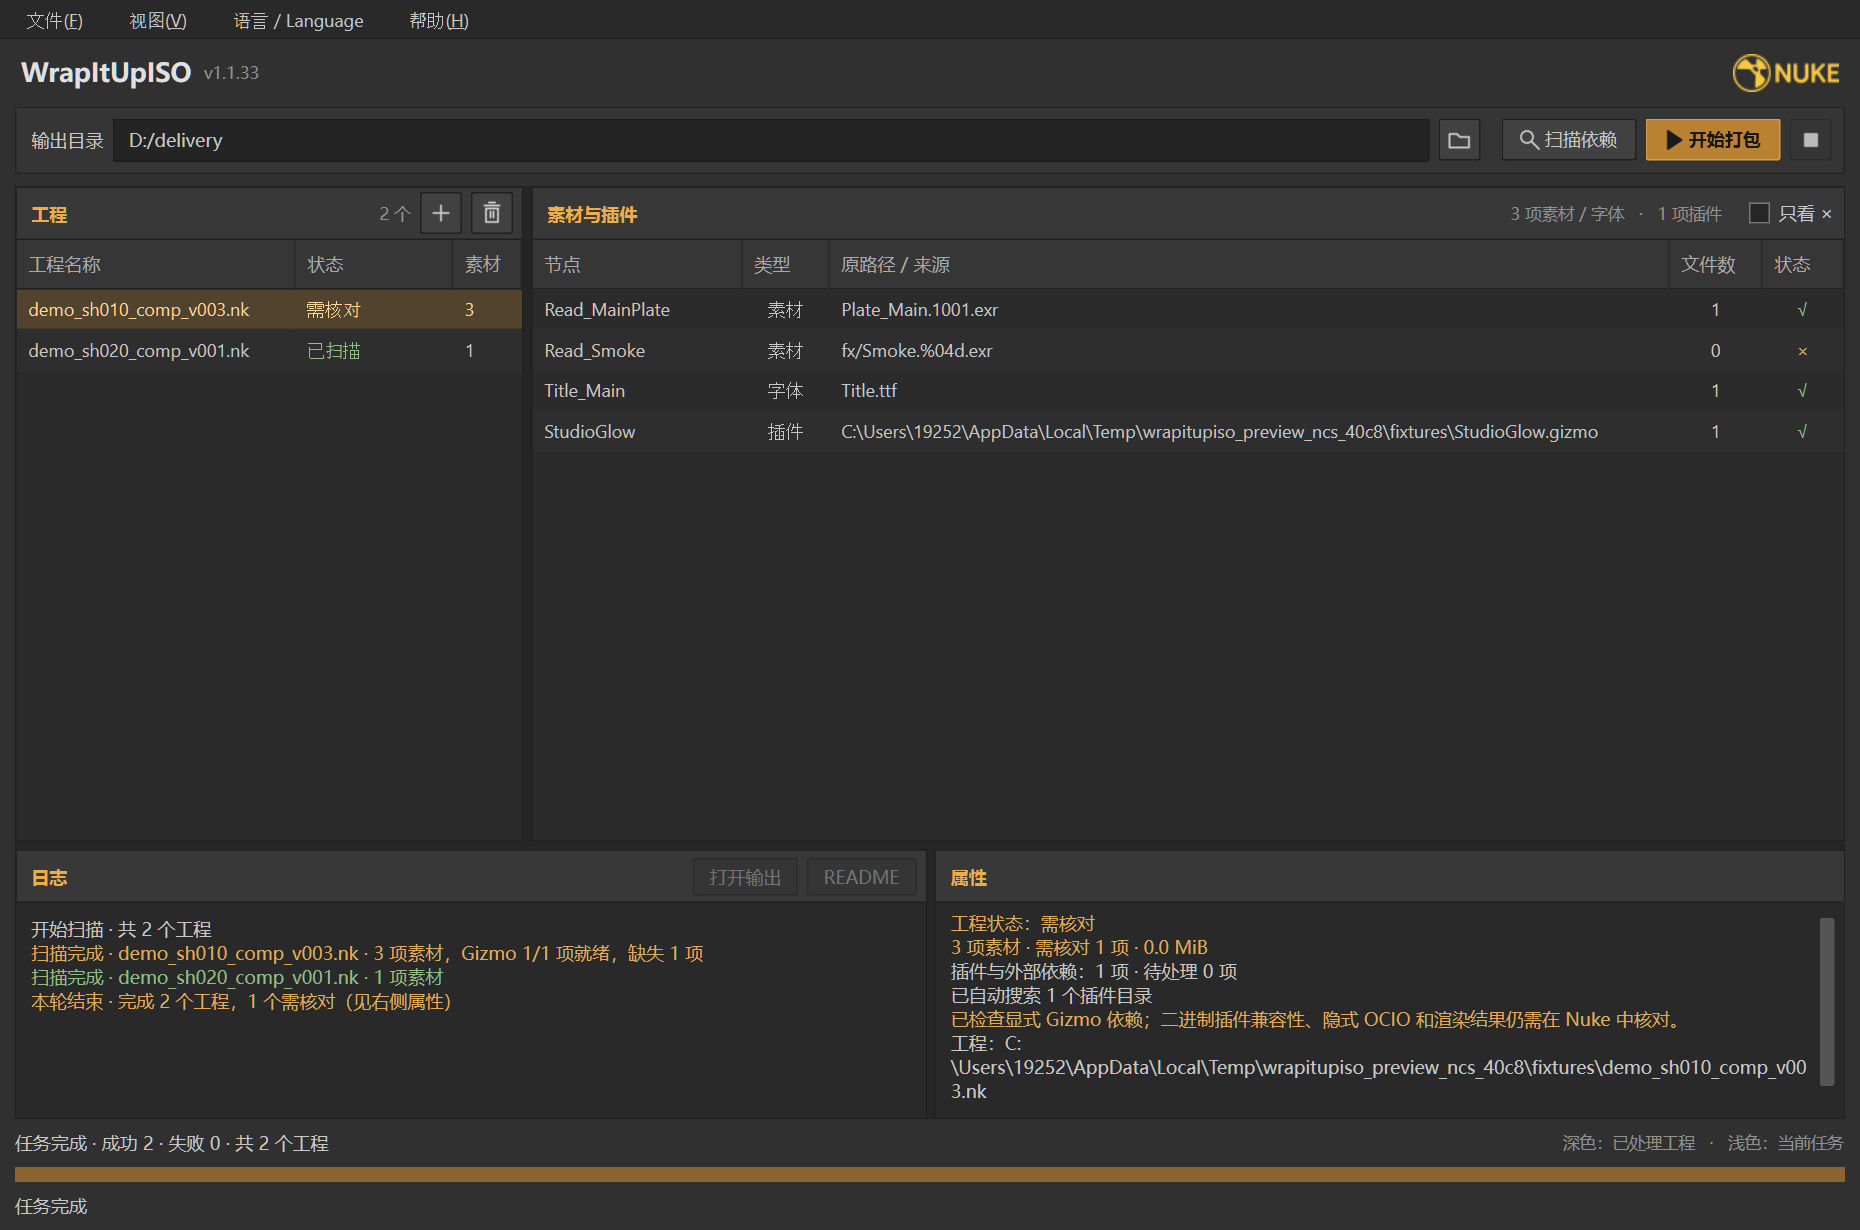
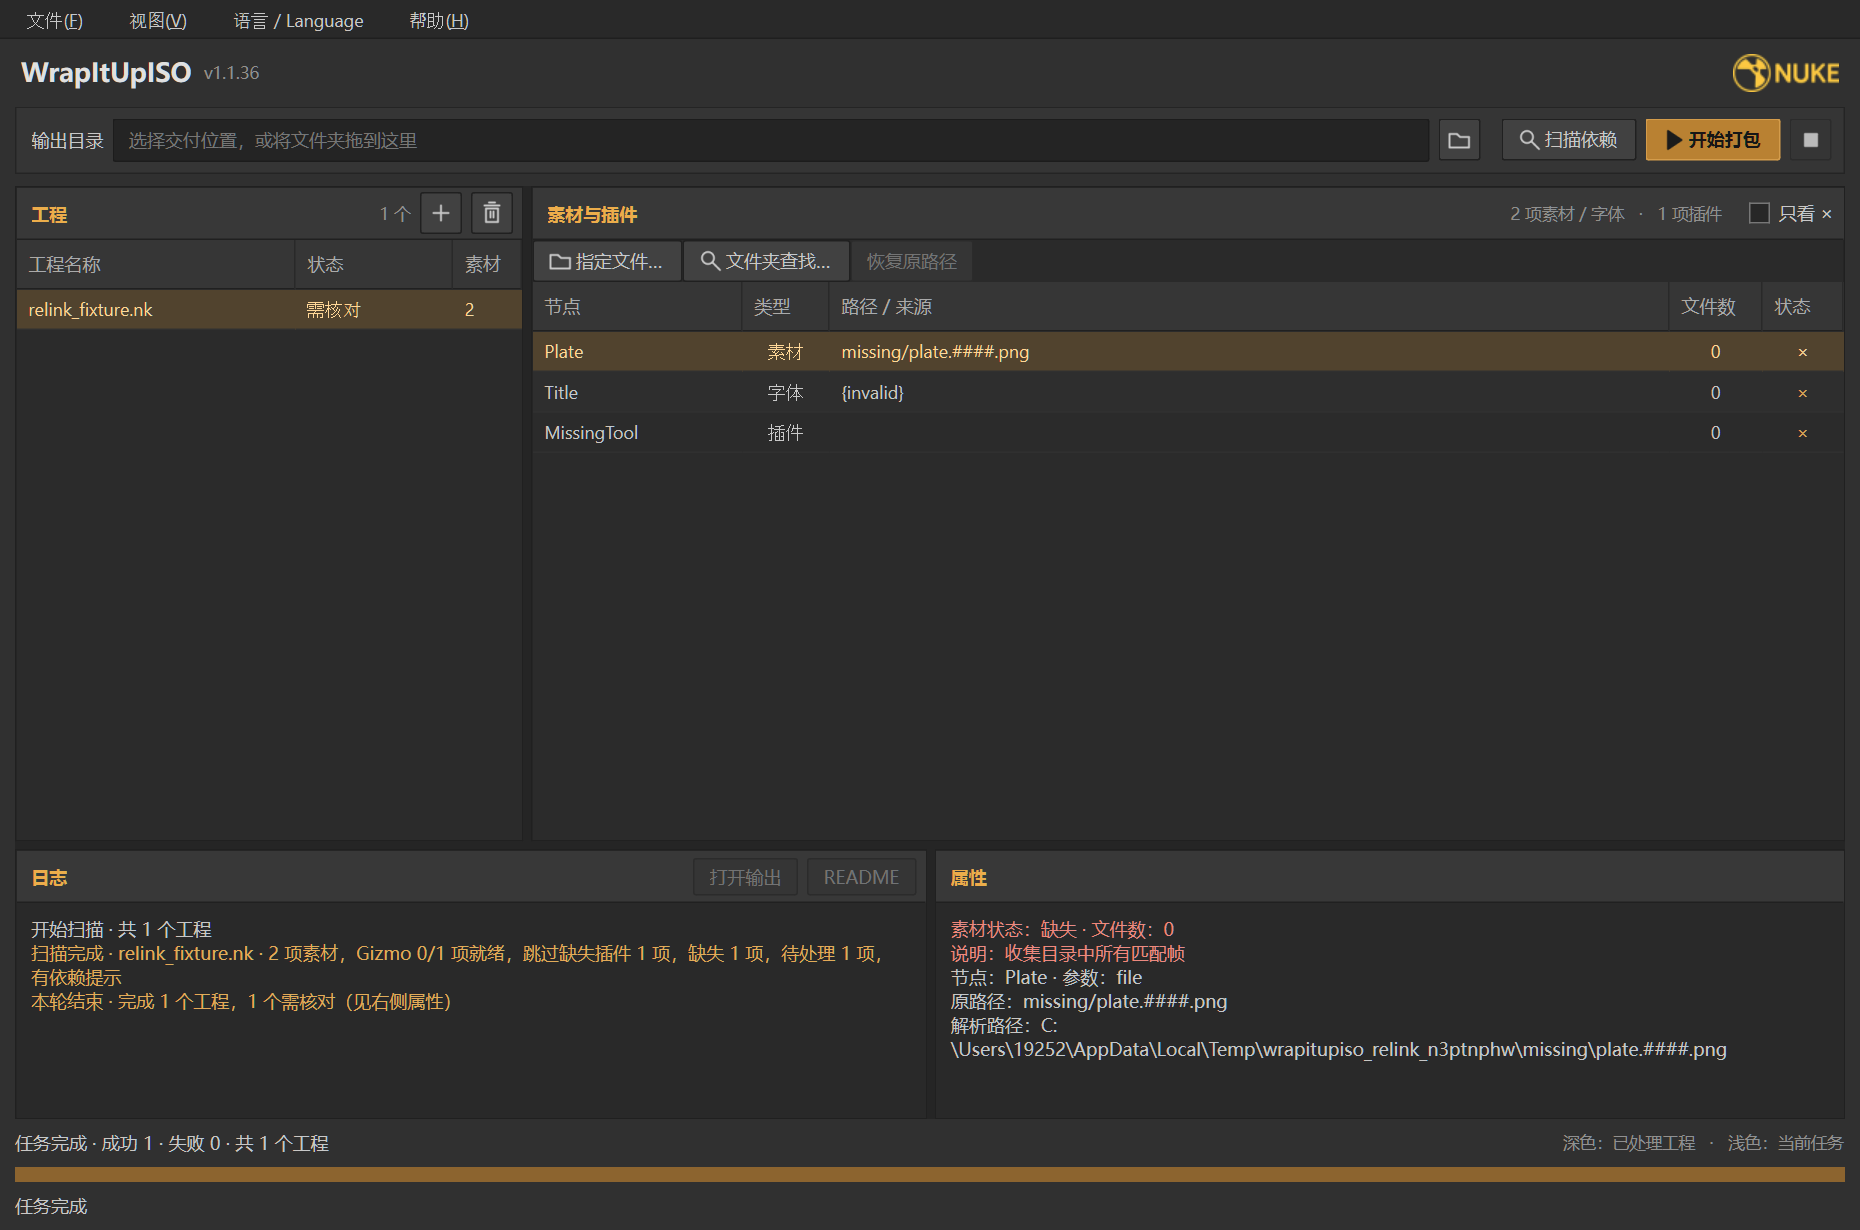
补充路径替换验证与使用说明并升级至 1.1.36
新增 Nuke 实机验证工具，比较绝对路径版与搬移后相对路径版的渲染结果。

更新三语界面截图、替换预览和使用说明；224 项测试、Nuke 渲染及独立目录单文件 EXE 验证通过。

diff --git a/tools/verify/verify_relink_nuke.py b/tools/verify/verify_relink_nuke.py
@@ -1,0 +1,100 @@
+"""Verify manually replaced and folder-matched dependencies in real Nuke renders."""
+import argparse
+import hashlib
+import json
+from pathlib import Path
+import shutil
+import subprocess
+import sys
+import tempfile
+from unittest.mock import patch
+
+sys.path.insert(0, str(Path(__file__).resolve().parents[2]))
+from wrapitupiso.engine.core import package, scan
+from wrapitupiso.engine.relink import dependency_key, find_candidates, manual_path
+
+
+def verify(nuke, font):
+    root = Path(tempfile.mkdtemp(prefix='wrapitupiso_relink_'))
+    search = root / 'search/deep'
+    search.mkdir(parents=True)
+    startup = subprocess.STARTUPINFO() if sys.platform == 'win32' else None
+    if startup:
+        startup.dwFlags |= subprocess.STARTF_USESHOWWINDOW
+        startup.wShowWindow = 0
+    def run(code):
+        probe = root / 'probe.py'
+        probe.write_text(code, encoding='utf-8')
+        result = subprocess.run([str(nuke), '--safe', '-ti', str(probe)], cwd=root,
+                                capture_output=True, timeout=90, startupinfo=startup)
+        output = (result.stdout + result.stderr).decode(errors='replace')
+        if result.returncode or 'Traceback' in output or 'ERROR:' in output: raise RuntimeError(output)
+        return output
+    run(f'''import nuke
+nuke.root()['format'].setValue(nuke.addFormat('96 32 1 relink_verify'))
+constant = nuke.nodes.Constant(color='0.6 0.2 0.1 1')
+writer = nuke.nodes.Write(inputs=[constant], file={(search / 'plate.%04d.png').as_posix()!r}, file_type='png', channels='rgba')
+nuke.execute(writer, 1001, 1003)
+''')
+    for frame in range(1001, 1004): shutil.copyfile(search / f'plate.{frame}.png', search / f'internal.{frame}.png')
+    font_path = search / 'ReplacementArial.ttf'
+    shutil.copyfile(font, font_path)
+    gizmo = search / 'ManuallyChosen.gizmo'
+    gizmo.write_text('Gizmo {\n inputs 0\n}\nRead {\n inputs 0\n file missing/internal.%04d.png\n first 1001\n last 1003\n name Internal\n}\nOutput {\n name Output1\n}\nend_group\n', encoding='utf-8')
+    script = root / 'relink_fixture.nk'
+    script.write_text('Root {\n format "96 32 0 0 96 32 1 relink_verify"\n first_frame 1001\n last_frame 1003\n}\nRead {\n inputs 0\n file missing/plate.####.png\n first 1001\n last 1003\n name Plate\n}\nMissingTool {\n inputs 0\n name Custom\n}\nText2 {\n inputs 0\n font {invalid}\n message Relink\n font_size 12\n box {0 0 96 32}\n name Title\n}\n', encoding='utf-8')
+    original = script.read_bytes()
+    with patch('wrapitupiso.engine.gizmo.default_paths', return_value=[]), patch('wrapitupiso.engine.font_scan.search_folders', return_value=([], [])):
+        plan = scan(script, automatic_plugins=True)
+        choices = {dependency_key(plan.assets[0]): manual_path(plan.assets[0], search / 'plate.1001.png'),
+                   dependency_key(plan.plugins[0]): str(gizmo),
+                   dependency_key(next(a for a in plan.assets if a.kind == 'font')): str(font_path)}
+        plan = scan(script, automatic_plugins=True, replacements=choices)
+        matches, errors = find_candidates(plan.assets, root / 'search')
+        assert not errors
+        choices.update({key: paths[0] for key, paths in matches.items() if len(paths) == 1})
+        plan = scan(script, automatic_plugins=True, replacements=choices)
+        assert not plan.plugin_blockers
+        assert all(asset.files for asset in plan.assets)
+        output = package(plan, root / 'delivery')
+    assert script.read_bytes() == original
+    assert (output / 'relink_fixture_original.nk').read_bytes() == original
+    moved = root / 'moved_package'
+    shutil.copytree(output, moved)
+    results = []
+    for label, folder, filename in (('absolute', output, 'relink_fixture_relinked.nk'),
+                                    ('relative', moved, 'relink_fixture_relinked_relative.nk')):
+        renders = root / ('render_' + label)
+        renders.mkdir()
+        run(f'''import nuke, json
+from pathlib import Path
+nuke.pluginAddPath({str(folder / 'gizmos')!r})
+nuke.scriptOpen({str(folder / filename)!r})
+values = {{}}
+for name in ('Plate', 'Custom', 'Title'):
+    node = nuke.toNode(name)
+    assert node is not None, name
+    writer = nuke.nodes.Write(inputs=[node], file={str(renders).replace(chr(92), '/')!r} + '/' + name + '.%04d.png', file_type='png', channels='rgba')
+    nuke.execute(writer, 1001, 1003)
+    assert not node.error(), name
+    values[name] = node.Class()
+assert 'replacementarial.ttf' in nuke.toNode('Title')['font'].toScript()
+Path({str(renders / 'nodes.json')!r}).write_text(json.dumps(values))
+''')
+        images = sorted(renders.glob('*.png'))
+        assert len(images) == 9
+        results.append({'variant': label, 'nodes': json.loads((renders / 'nodes.json').read_text()),
+                        'renders': {p.name: hashlib.sha256(p.read_bytes()).hexdigest() for p in images}})
+    assert results[0]['renders'] == results[1]['renders']
+    return {'passed': True, 'fixture': str(root), 'nuke': str(nuke), 'original_unchanged': True, 'results': results}
+
+
+if __name__ == '__main__':
+    parser = argparse.ArgumentParser(description=__doc__)
+    parser.add_argument('--nuke', type=Path, required=True)
+    parser.add_argument('--font', type=Path, default=Path('C:/Windows/Fonts/arial.ttf'))
+    parser.add_argument('--output', type=Path, required=True)
+    args = parser.parse_args()
+    result = verify(args.nuke, args.font)
+    args.output.write_text(json.dumps(result, ensure_ascii=False, indent=2), encoding='utf-8')
+    print(json.dumps({'passed': result['passed'], 'fixture': result['fixture'], 'rendered_images': 18}))

diff --git a/docs/reference.md b/docs/reference.md
@@ -6,7 +6,7 @@
 
 ## Windows 启动
 
-1. 双击 `tools/dist/WrapItUpISO 1.1.35.exe`。这是单文件发布版，已内置 Python 运行时、Qt6 和全部界面依赖，目标电脑无需安装 Python 或 Python Launcher。
+1. 双击 `tools/dist/WrapItUpISO 1.1.36.exe`。这是单文件发布版，已内置 Python 运行时、Qt6 和全部界面依赖，目标电脑无需安装 Python 或 Python Launcher。
 2. 点击左侧工程列表上方的 `+`，打开 Windows 原生文件选择器。支持 Ctrl / Shift 多选文件夹、`.nk` 工程，也可混选，点击“添加选中项”加入列表。双击文件夹进入目录；仅选择 `.nk` 时也可点击“打开”。文件夹会递归查找 `.nk`，没有工程时在日志提示，重复工程不会重复添加。仍支持直接拖入文件或文件夹。
 3. 点击工具栏的放大镜图标“扫描素材与插件”。左侧选择工程，右侧分别列出素材和 Gizmo / 插件条目，点击条目查看来源与问题。左右分栏宽度可拖动调整。
 4. 将一个文件夹拖到“输出目录”输入框，自动使用该路径；也可点击文件夹图标选择目录。点击三角形图标“开始打包”。拖到其他区域的文件夹仍用于添加工程。
@@ -19,7 +19,7 @@
 
 重新扫描、取消或再次打包失败时，仍可打开该工程上一次成功打包的目录和 README；下一次成功打包后入口更新到新目录。移除工程或清空列表时清除对应记录。
 
-分发时只需复制 `WrapItUpISO 1.1.35.exe`。程序启动时会将内置依赖解压到系统临时目录，启动可能需要几秒钟。
+分发时只需复制 `WrapItUpISO 1.1.36.exe`。程序启动时会将内置依赖解压到系统临时目录，启动可能需要几秒钟。
 
 扫描和复制在后台线程执行，窗口保持可操作。连续双色进度条中，深色代表已处理工程，浅色紧接深色，代表当前工程在当前阶段的任务进度；不绘制工程分隔线，进度变化采用短暂平滑过渡。上方保留工程数量，下方显示任务数、百分比和正在处理的文件；复制阶段按文件数计任务，大文件内部仍按复制量平滑更新。任务数量尚未确定时，浅色部分贴着深色边缘缓慢伸缩。点击“取消”会清理当前未完成工程，保留已完成结果。
 
@@ -75,9 +75,21 @@ python tools/assets/prepare_app_icons.py
 python -m PyInstaller --workpath tools/build --distpath tools/dist tools/WrapItUpISO.spec
 ```
 
-生成的程序为 `tools/dist/WrapItUpISO 1.1.35.exe`，文件名自动采用 `version.json` 中的名称与版本，无需附带 `_internal` 文件夹。
+生成的程序为 `tools/dist/WrapItUpISO 1.1.36.exe`，文件名自动采用 `version.json` 中的名称与版本，无需附带 `_internal` 文件夹。
 窗口、任务栏和 EXE 使用 `wrapitupiso/resources/icons/nuke logo.png` 转换的圆形图标；工具栏使用同目录中的横版 Logo。图标资源随 EXE 内置，替换源图片后运行 `prepare_app_icons.py` 再构建即可更新。
 界面使用 Qt6 / PySide6，文件拖放由 Qt 原生处理；EXE 内置 Qt 库与 Windows 平台插件，不需要额外安装 Qt。
+
+## 手动指定与文件夹查找
+
+扫描后，在“素材与插件”列表选中一项，点击 **指定文件…** 或使用右键菜单选择新的素材、字体或 Gizmo 文件。序列帧选择其中一帧即可，程序会识别整组序列及补零位数，并重新检查缺帧。列表显示当前替换路径，属性中仍保留原始引用。
+
+Text2 更换字体时同时更新字体族与样式，字体集合采用首个字体面；字体元数据无法读取时标记为待核对，不将其标为就绪。程序内置字体读取依赖，不会安装字体到系统。
+
+点击 **文件夹查找…**，会递归搜索当前工程的全部依赖；右键菜单的“在文件夹中查找选中项…”只搜索选中项，支持 Ctrl / Shift 多选。查找按文件名匹配，序列按文件名模式分组。预览中唯一匹配默认选中，多个候选需手动选择，也可保留当前路径；点击“应用替换”后重新检查依赖。未找到的项目保持原样，目录读取错误会显示在预览中。
+
+指定 Gizmo 后会重新检查其内部素材与嵌套依赖，并按新选择生成交付文件。OFX 和二进制插件仍属于外部依赖，指定文件后会记录其来源，但不会自动安装、复制为可用插件或承诺运行兼容。插件检查发现的问题仍会出现在列表和属性中。
+
+**恢复原路径** 会撤销选中项的手动选择并重新扫描。替换仅影响本次窗口中的扫描与后续打包，不修改源 `.nk`、Gizmo 或素材；交付中的原工程备份也保留原始内容。选择在重新扫描和连续打包之间保留，移除工程、清空列表或关闭程序后清除，不写入便携设置 JSON。源工程改动导致旧选择不再适用时会提示重新核对。文件夹查找和依赖重检在后台进行，可以取消；取消或读取失败时保留之前的选择。
 
 ## 语言与便携设置
 

diff --git a/tools/README.md b/tools/README.md
@@ -34,4 +34,10 @@ python tools/verify/benchmark_pipeline.py --baseline-ref HEAD --result tools/rep
 python tools/verify/benchmark_language.py --output tools/reports/benchmark-language.json
 ```
 
+路径替换的 Nuke 实机验证会生成临时工程，检查手动指定、文件夹匹配、Gizmo 内部素材与 Text2 字体替换；分别渲染绝对路径版和搬移后的相对路径版，并比较图像哈希：
+
+```powershell
+python tools/verify/verify_relink_nuke.py --nuke "C:/Program Files/Nuke15.1v5/Nuke15.1.exe" --output tools/reports/relink-nuke.json
+```
+
 更多验证命令见 [开发与验证](../docs/reference.md#开发与验证)。
